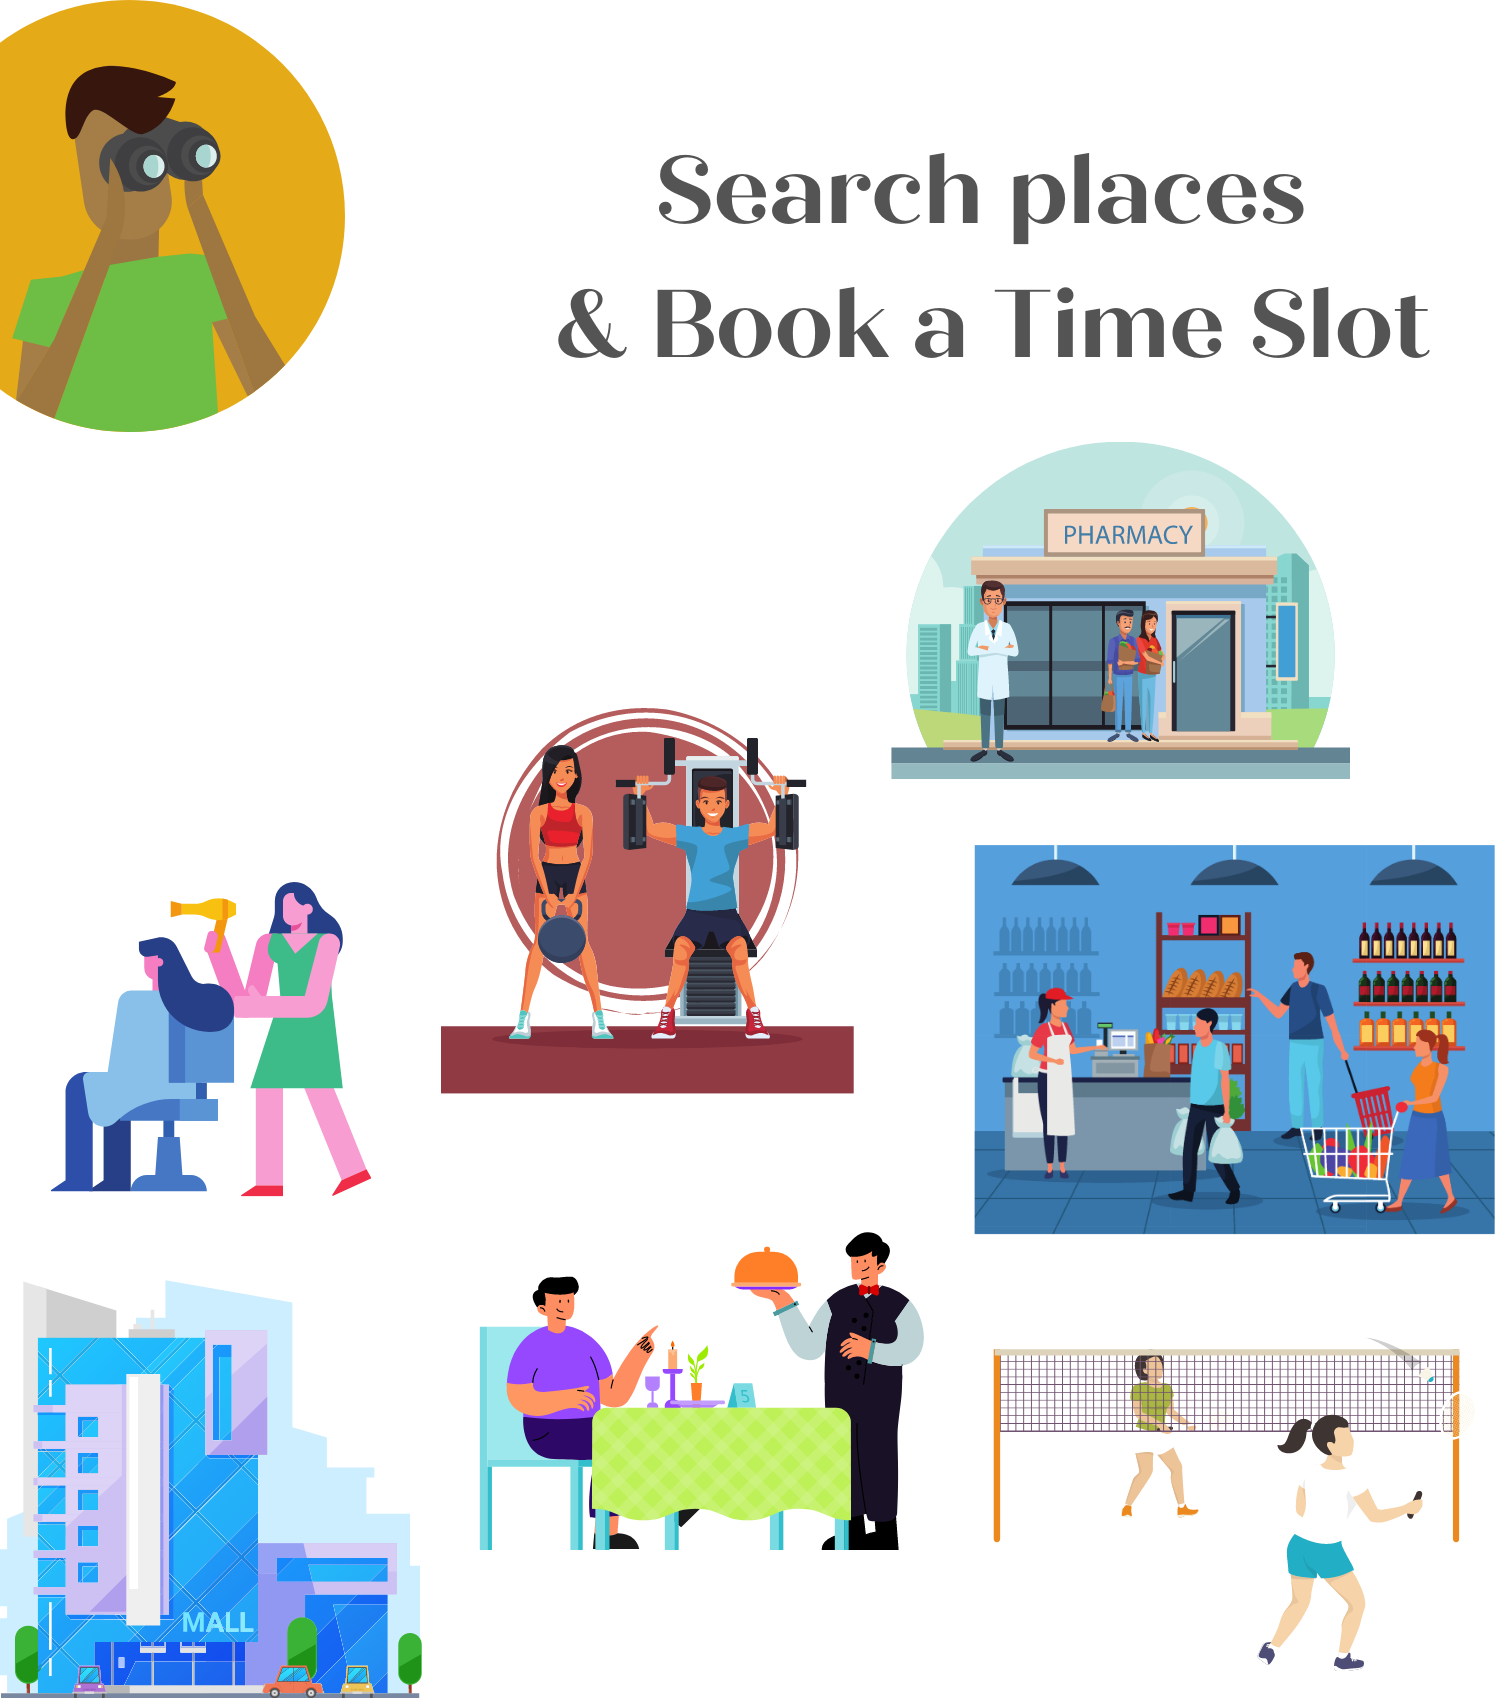
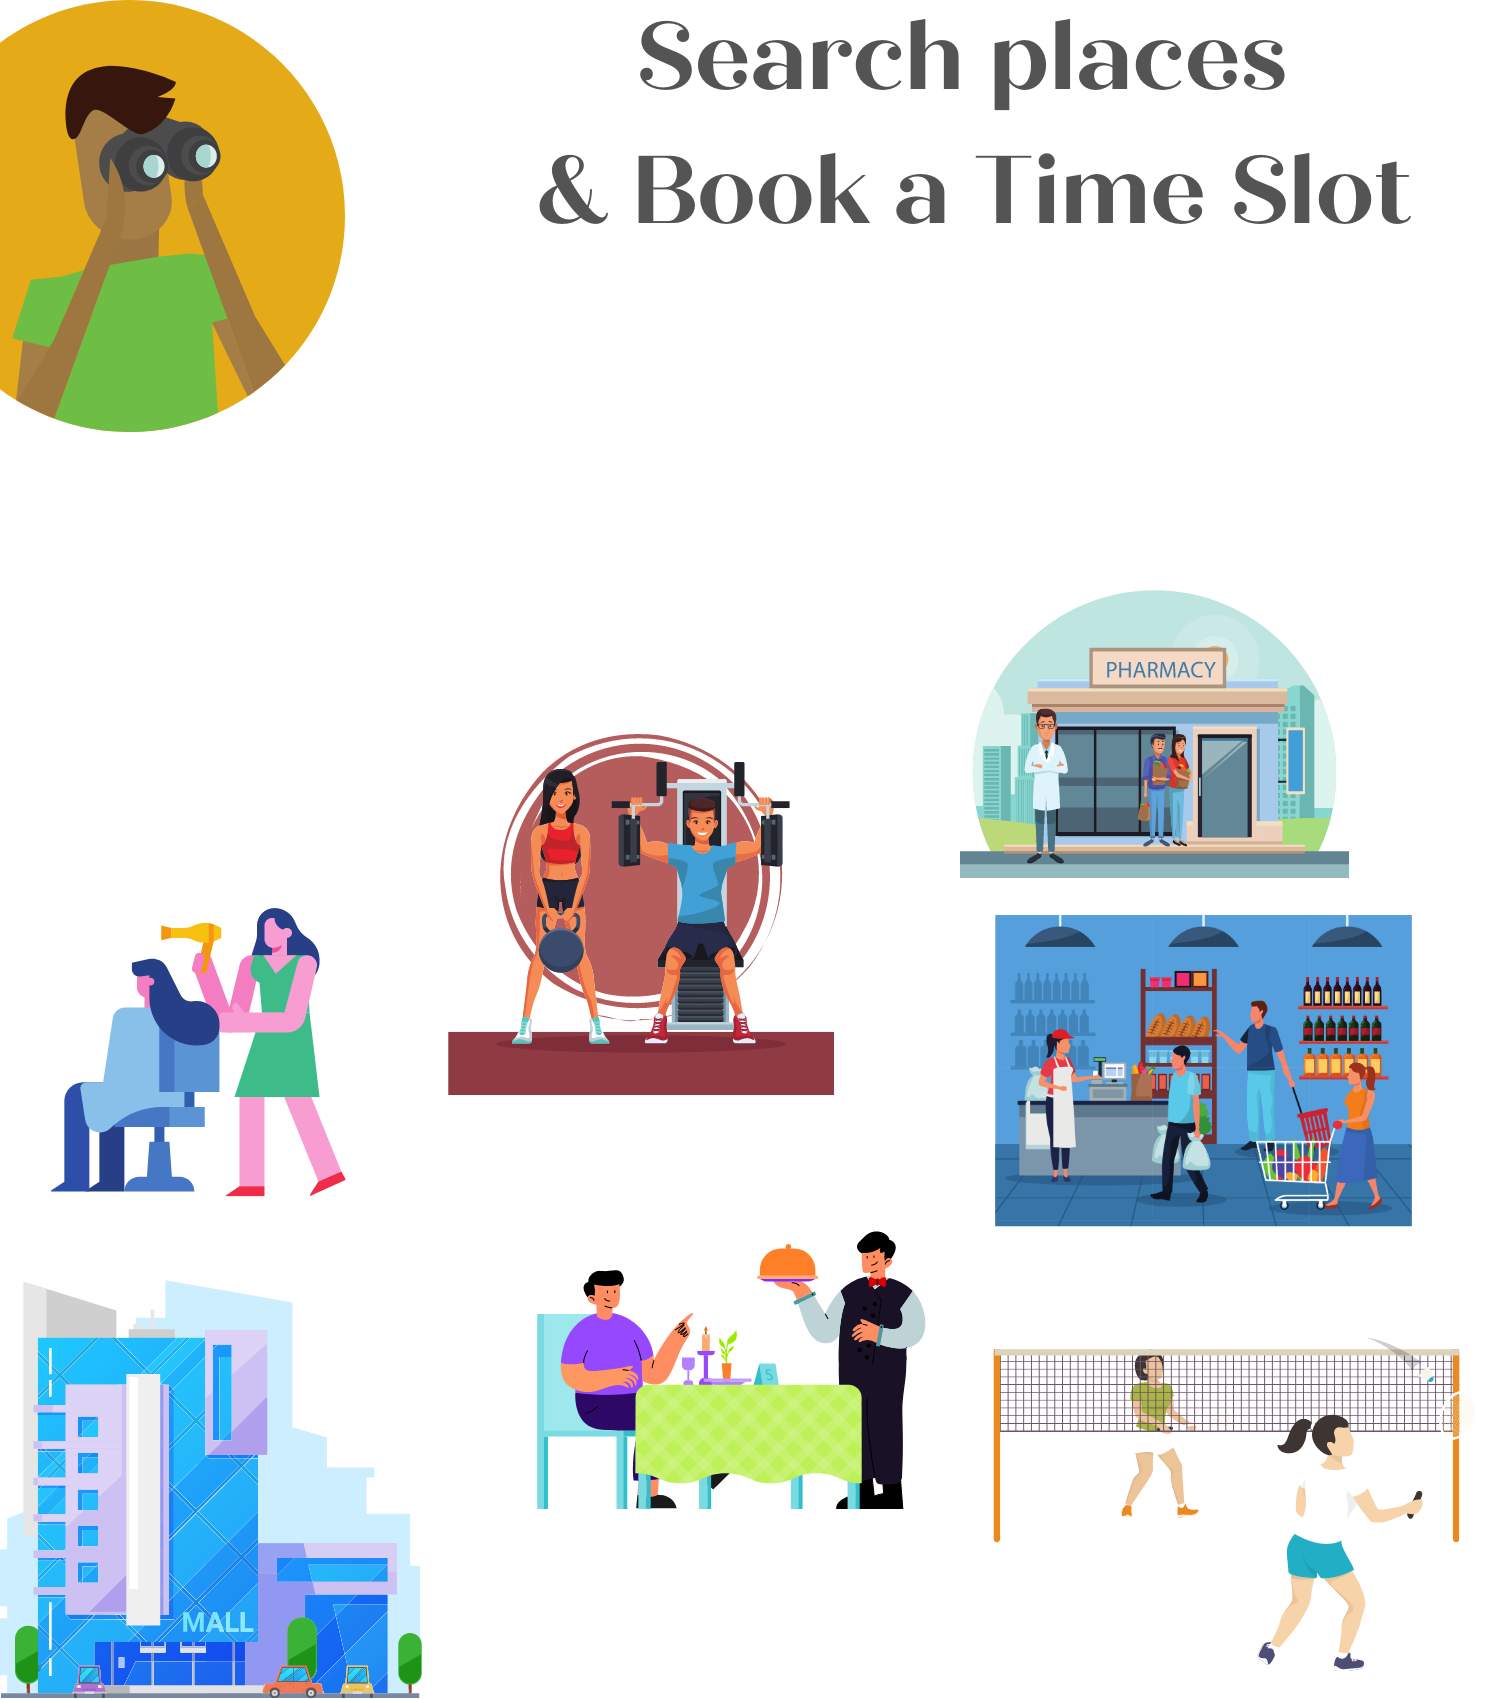
search page search link added

diff --git a/lib/pages/search_child_entity_page.dart b/lib/pages/search_child_entity_page.dart
@@ -1,3 +1,4 @@
+import 'package:flutter/gestures.dart';
 import 'package:flutter/material.dart';
 import 'package:flutter/rendering.dart';
 import 'package:geolocator/geolocator.dart';
@@ -10,6 +11,7 @@ import 'package:noq/db/db_service/entity_service.dart';
 import 'package:noq/events/event_bus.dart';
 import 'package:noq/events/events.dart';
 import 'package:noq/global_state.dart';
+import 'package:noq/pages/contact_us.dart';
 import 'package:noq/pages/search_entity_page.dart';
 import 'package:noq/pages/show_slots_page.dart';
 import 'package:noq/repository/StoreRepository.dart';
@@ -53,6 +55,7 @@ class _SearchChildEntityPageState extends State<SearchChildEntityPage>
   bool searchBoxClicked = false;
   bool fetchFromServer = false;
   PersistentBottomSheetController childBottomSheetController;
+
   bool showFab = true;
   String categoryType;
   // Map<String, String> categoryList = new Map<String, String>();
@@ -121,7 +124,7 @@ class _SearchChildEntityPageState extends State<SearchChildEntityPage>
   String _fromPage;
   List<Entity> enList = new List<Entity>();
   ScrollController _selectCategoryBtnController;
-
+  Widget _msgOnboard;
   AnimationController controller;
   Animation<Offset> offset;
   Eventify.Listener eventListener;
@@ -326,31 +329,18 @@ class _SearchChildEntityPageState extends State<SearchChildEntityPage>
                     ),
                     Padding(
                       padding: EdgeInsets.all(5),
-                      child: Text(
-                        txtSubMsg,
-                        style: TextStyle(
-                          color: primaryDarkColor,
-                          fontFamily: 'Montserrat',
-                          fontSize: 18,
-                        ),
-                        textAlign: TextAlign.center,
-                      ),
+                      child: _msgOnboard,
                     ),
                   ],
                 ),
               if (messageTitle != "NotFound")
                 Column(children: <Widget>[
-                  SizedBox(height: MediaQuery.of(context).size.height * .32),
-                  Text(
-                    txtMsg,
-                    style: highlightTextStyle,
-                    textAlign: TextAlign.center,
-                  ),
-                  Text(
-                    txtSubMsg,
-                    style: highlightSubTextStyle,
-                    textAlign: TextAlign.center,
-                  ),
+                  SizedBox(height: MediaQuery.of(context).size.height * .02),
+                  Container(
+                      color: Colors.transparent,
+                      child: Image(
+                        image: AssetImage('assets/search_home.png'),
+                      )),
                 ]),
             ],
           ),
@@ -1689,26 +1679,62 @@ class _SearchChildEntityPageState extends State<SearchChildEntityPage>
         _isSearching = "done";
       });
       return;
-    }
-    for (int i = 0; i < enList.length; i++) {
-      Entity en = enList.elementAt(i);
+    } else {
+      for (int i = 0; i < enList.length; i++) {
+        Entity en = enList.elementAt(i);
 
-      if ((Utils.isNotNullOrEmpty(_entityType) &&
-          Utils.isNotNullOrEmpty(_searchText))) {
-        if (en.type == _entityType &&
-            en.name.toLowerCase().contains(_searchText.toLowerCase())) {
-          searchList.add(en);
+        if ((Utils.isNotNullOrEmpty(_entityType) &&
+            Utils.isNotNullOrEmpty(_searchText))) {
+          if (en.type == _entityType &&
+              en.name.toLowerCase().contains(_searchText.toLowerCase())) {
+            searchList.add(en);
+          }
+        } else if ((!Utils.isNotNullOrEmpty(_entityType) &&
+            Utils.isNotNullOrEmpty(_searchText))) {
+          if (en.name.toLowerCase().contains(_searchText.toLowerCase())) {
+            searchList.add(en);
+          }
+        } else if ((Utils.isNotNullOrEmpty(_entityType) &&
+            !Utils.isNotNullOrEmpty(_searchText))) {
+          if (en.type == _entityType) {
+            searchList.add(en);
+          }
         }
-      } else if ((!Utils.isNotNullOrEmpty(_entityType) &&
-          Utils.isNotNullOrEmpty(_searchText))) {
-        if (en.name.toLowerCase().contains(_searchText.toLowerCase())) {
-          searchList.add(en);
-        }
-      } else if ((Utils.isNotNullOrEmpty(_entityType) &&
-          !Utils.isNotNullOrEmpty(_searchText))) {
-        if (en.type == _entityType) {
-          searchList.add(en);
-        }
+      }
+      if (searchList.length == 0) {
+        setState(() {
+          messageTitle = "NotFound";
+
+          // messageSubTitle = notFoundMsg;
+          _msgOnboard = RichText(
+              text: TextSpan(
+                  style: TextStyle(color: Colors.blueGrey, fontSize: 15),
+                  children: <TextSpan>[
+                TextSpan(text: notFoundMsg1, style: TextStyle(fontSize: 18)),
+                TextSpan(
+                  text: notFoundMsg4,
+                  style: TextStyle(color: Colors.blue),
+                  recognizer: new TapGestureRecognizer()
+                    ..onTap = () {
+                      _searchTextController.text = "";
+                      Utils.generateLinkAndShare();
+                    },
+                ),
+                TextSpan(text: notFoundMsg5),
+                TextSpan(text: notFoundMsg3),
+                TextSpan(
+                    text: notFoundMsg2,
+                    style: TextStyle(color: Colors.blue),
+                    recognizer: new TapGestureRecognizer()
+                      ..onTap = () {
+                        _searchTextController.text = "";
+                        Navigator.push(
+                            context,
+                            MaterialPageRoute(
+                                builder: (context) => ContactUsPage()));
+                      }),
+              ]));
+        });
       }
     }
 

diff --git a/lib/pages/contact_us.dart b/lib/pages/contact_us.dart
@@ -284,45 +284,43 @@ class _ContactUsPageState extends State<ContactUsPage> {
                           leading: Container(
                               padding: EdgeInsets.fromLTRB(0, 25, 0, 0),
                               child: const Icon(Icons.email)),
-                          title: Expanded(
-                            child: Column(
-                              children: <Widget>[
-                                TextField(
-                                  autofocus: false,
-                                  controller: _msgController,
-                                  decoration: InputDecoration(
-                                    labelText: 'Enter your message here..',
-                                    enabledBorder: OutlineInputBorder(
-                                        borderSide:
-                                            BorderSide(color: Colors.grey)),
-                                    focusedBorder: OutlineInputBorder(
-                                        borderSide:
-                                            BorderSide(color: Colors.orange)),
-                                    // errorText:
-                                    //     _validate ? 'Please enter your message' : null,
-                                  ),
-                                  //validator: validateText,
-                                  keyboardType: TextInputType.multiline,
-                                  maxLength: null,
-                                  maxLines: 3,
-                                  onChanged: (value) {
-                                    if (_msgController.text?.length != 0)
-                                      setState(() {
-                                        _errMsg = null;
-                                      });
+                          title: Column(
+                            children: <Widget>[
+                              TextField(
+                                autofocus: false,
+                                controller: _msgController,
+                                decoration: InputDecoration(
+                                  labelText: 'Enter your message here..',
+                                  enabledBorder: OutlineInputBorder(
+                                      borderSide:
+                                          BorderSide(color: Colors.grey)),
+                                  focusedBorder: OutlineInputBorder(
+                                      borderSide:
+                                          BorderSide(color: Colors.orange)),
+                                  // errorText:
+                                  //     _validate ? 'Please enter your message' : null,
+                                ),
+                                //validator: validateText,
+                                keyboardType: TextInputType.multiline,
+                                maxLength: null,
+                                maxLines: 3,
+                                onChanged: (value) {
+                                  if (_msgController.text?.length != 0)
                                     setState(() {
-                                      _mailSecLine = _msgController.text;
-                                      _mailBody =
-                                          _mailFirstline + "\n" + _mailSecLine;
+                                      _errMsg = null;
                                     });
-                                  },
-                                ),
-                                Text(
-                                  (_errMsg != null) ? _errMsg : "",
-                                  style: errorTextStyle,
-                                ),
-                              ],
-                            ),
+                                  setState(() {
+                                    _mailSecLine = _msgController.text;
+                                    _mailBody =
+                                        _mailFirstline + "\n" + _mailSecLine;
+                                  });
+                                },
+                              ),
+                              Text(
+                                (_errMsg != null) ? _errMsg : "",
+                                style: errorTextStyle,
+                              ),
+                            ],
                           ),
                         ),
                         verticalSpacer,

diff --git a/lib/pages/search_entity_page.dart b/lib/pages/search_entity_page.dart
@@ -1,3 +1,4 @@
+import 'package:flutter/gestures.dart';
 import 'package:flutter/material.dart';
 import 'package:flutter/rendering.dart';
 import 'package:geolocator/geolocator.dart';
@@ -11,6 +12,7 @@ import 'package:noq/db/db_service/entity_service.dart';
 import 'package:noq/events/event_bus.dart';
 import 'package:noq/events/events.dart';
 import 'package:noq/global_state.dart';
+import 'package:noq/pages/contact_us.dart';
 import 'package:noq/pages/search_child_entity_page.dart';
 import 'package:noq/pages/show_slots_page.dart';
 import 'package:noq/services/circular_progress.dart';
@@ -51,7 +53,7 @@ class _SearchEntityPageState extends State<SearchEntityPage>
   PersistentBottomSheetController bottomSheetController;
   bool showFab = true;
   String categoryType;
-
+  Widget _msgOnboard;
   List<String> searchTypes = new List<String>();
 
   Widget _buildCategoryItem(BuildContext context, int index) {
@@ -291,15 +293,7 @@ class _SearchEntityPageState extends State<SearchEntityPage>
                     ),
                     Padding(
                       padding: EdgeInsets.all(5),
-                      child: Text(
-                        txtSubMsg,
-                        style: TextStyle(
-                          color: primaryDarkColor,
-                          fontFamily: 'Montserrat',
-                          fontSize: 18,
-                        ),
-                        textAlign: TextAlign.center,
-                      ),
+                      child: _msgOnboard,
                     ),
                   ],
                 ),
@@ -1707,7 +1701,36 @@ class _SearchEntityPageState extends State<SearchEntityPage>
             Utils.isNotNullOrEmpty(_searchText)) {
           setState(() {
             messageTitle = "NotFound";
-            messageSubTitle = notFoundMsg;
+
+            // messageSubTitle = notFoundMsg;
+            _msgOnboard = RichText(
+                text: TextSpan(
+                    style: TextStyle(color: Colors.blueGrey, fontSize: 15),
+                    children: <TextSpan>[
+                  TextSpan(text: notFoundMsg1, style: TextStyle(fontSize: 18)),
+                  TextSpan(
+                    text: notFoundMsg4,
+                    style: TextStyle(color: Colors.blue),
+                    recognizer: new TapGestureRecognizer()
+                      ..onTap = () {
+                        _searchTextController.text = "";
+                        Utils.generateLinkAndShare();
+                      },
+                  ),
+                  TextSpan(text: notFoundMsg5),
+                  TextSpan(text: notFoundMsg3),
+                  TextSpan(
+                      text: notFoundMsg2,
+                      style: TextStyle(color: Colors.blue),
+                      recognizer: new TapGestureRecognizer()
+                        ..onTap = () {
+                          _searchTextController.text = "";
+                          Navigator.push(
+                              context,
+                              MaterialPageRoute(
+                                  builder: (context) => ContactUsPage()));
+                        }),
+                ]));
           });
         } else {
           setState(() {
@@ -1715,7 +1738,6 @@ class _SearchEntityPageState extends State<SearchEntityPage>
             messageSubTitle = "";
           });
         }
-
         _stores.clear();
       } else {
         //Case 3- Show search results.

diff --git a/lib/pages/user_account_page.dart b/lib/pages/user_account_page.dart
@@ -597,15 +597,6 @@ class _UserAccountPageState extends State<UserAccountPage> {
     // launch("https://play.google.com/store/apps/details?id=" + packageName);
   }
 
-  generateLinkAndShare() async {
-    var dynamicLink = await Utils.createDynamicLink();
-    print("Dynamic Link: $dynamicLink");
-    // _dynamicLink =
-    //     Uri.https(dynamicLink.authority, dynamicLink.path).toString();
-    // dynamicLink has been generated. share it with others to use it accordingly.
-    Share.share(Uri.https(dynamicLink.authority, dynamicLink.path).toString());
-  }
-
   @override
   void dispose() {
     super.dispose();
@@ -729,7 +720,7 @@ class _UserAccountPageState extends State<UserAccountPage> {
                                                   final RenderBox box = context
                                                       .findRenderObject();
 
-                                                  generateLinkAndShare();
+                                                  Utils.generateLinkAndShare();
                                                 },
                                           child: const Text(
                                             'Invite friends',

diff --git a/lib/utils.dart b/lib/utils.dart
@@ -8,6 +8,7 @@ import 'package:noq/db/db_model/address.dart';
 import 'package:noq/style.dart';
 import 'package:noq/widget/weekday_selector.dart';
 import 'package:noq/widget/widgets.dart';
+import 'package:share/share.dart';
 
 import 'constants.dart';
 
@@ -352,6 +353,15 @@ class Utils {
   //   categoryList["Hospital"] = "hospital.png";
   //   return categoryList;
   // }
+
+  static generateLinkAndShare() async {
+    var dynamicLink = await Utils.createDynamicLink();
+    print("Dynamic Link: $dynamicLink");
+    // _dynamicLink =
+    //     Uri.https(dynamicLink.authority, dynamicLink.path).toString();
+    // dynamicLink has been generated. share it with others to use it accordingly.
+    Share.share(Uri.https(dynamicLink.authority, dynamicLink.path).toString());
+  }
 
   static Widget getEntityTypeImage(String type, double size) {
     Widget entityImageWidget;

diff --git a/lib/constants.dart b/lib/constants.dart
@@ -70,10 +70,14 @@ String helpPageMainMsg = "We are working on getting best help..";
 String defaultSearchMsg = 'Search places by Category or Name!!';
 String defaultSearchSubMsg =
     'Add places to your favourites and quickly browse through later!!';
+String notFoundMsg1 = "NO WORRIES.. ";
+String notFoundMsg2 = "Contact Us.";
+String notFoundMsg3 = "or ";
+String notFoundMsg4 = "Share this app ";
+String notFoundMsg5 =
+    "with the place owner to Register with us at absolutely no charges ";
 
-String notFoundMsg = "No worries.. Ask the place owner to Register for free!!";
 String noFavMsg = 'No favourites yet!!';
-
 String tokenHeading = 'Yay!! Your booking is confirmed.';
 String tokenTextH1 =
     "Booked your peace of mind. No more long waiting in queues!";
